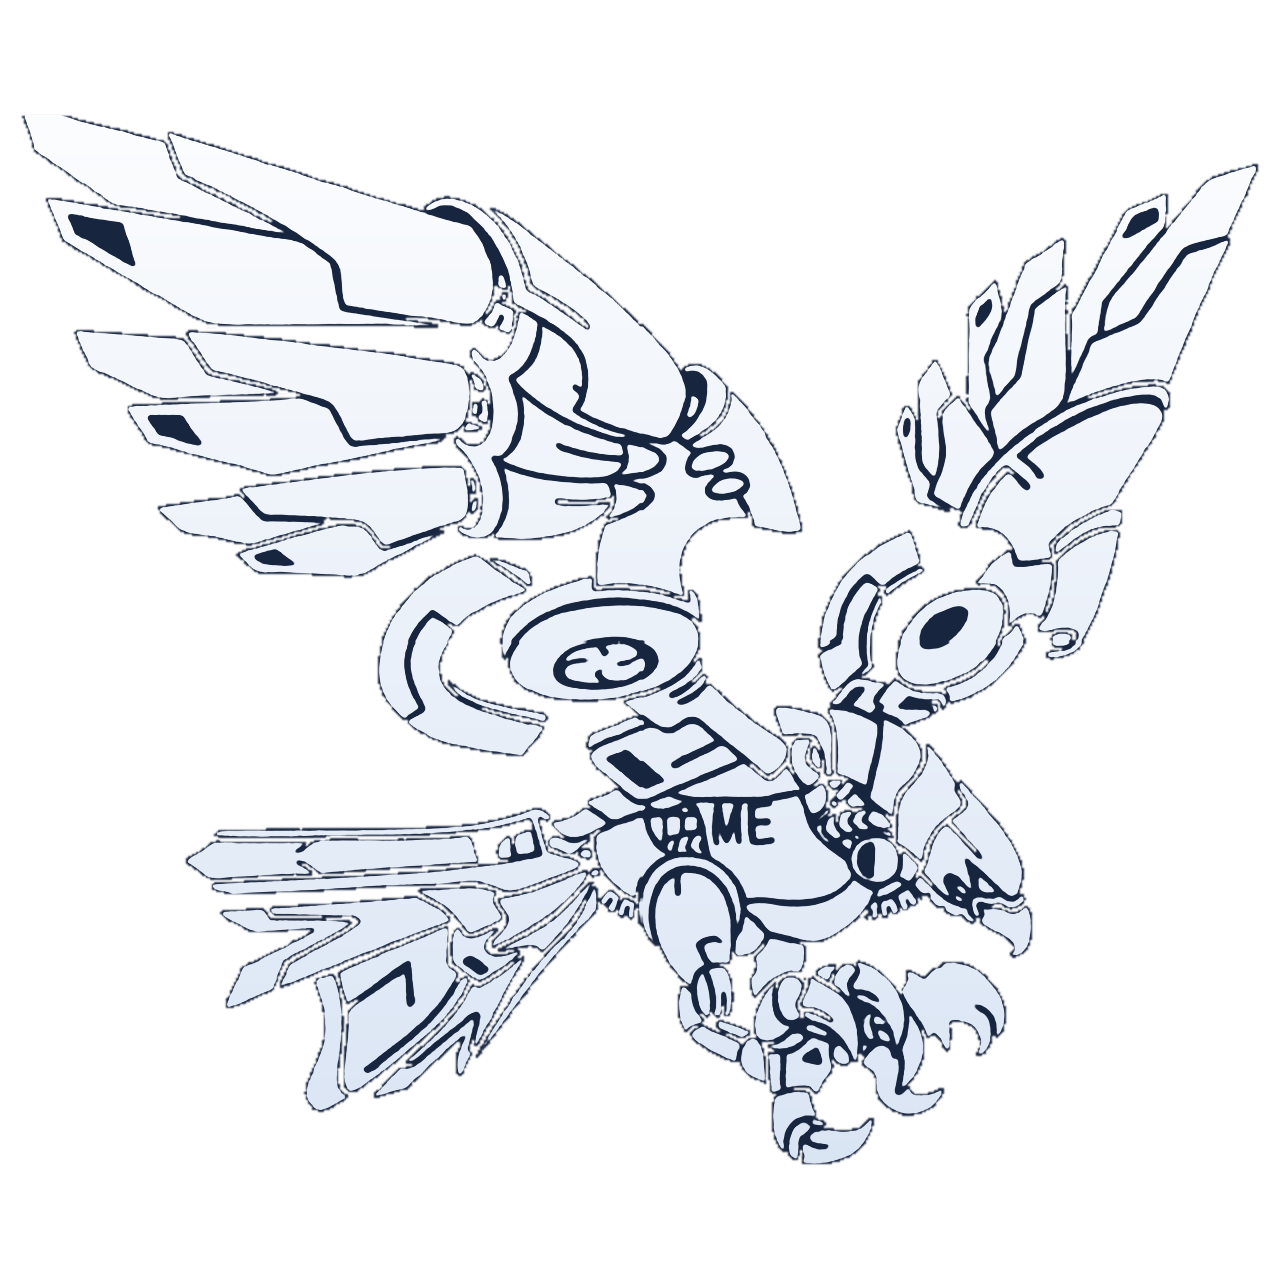
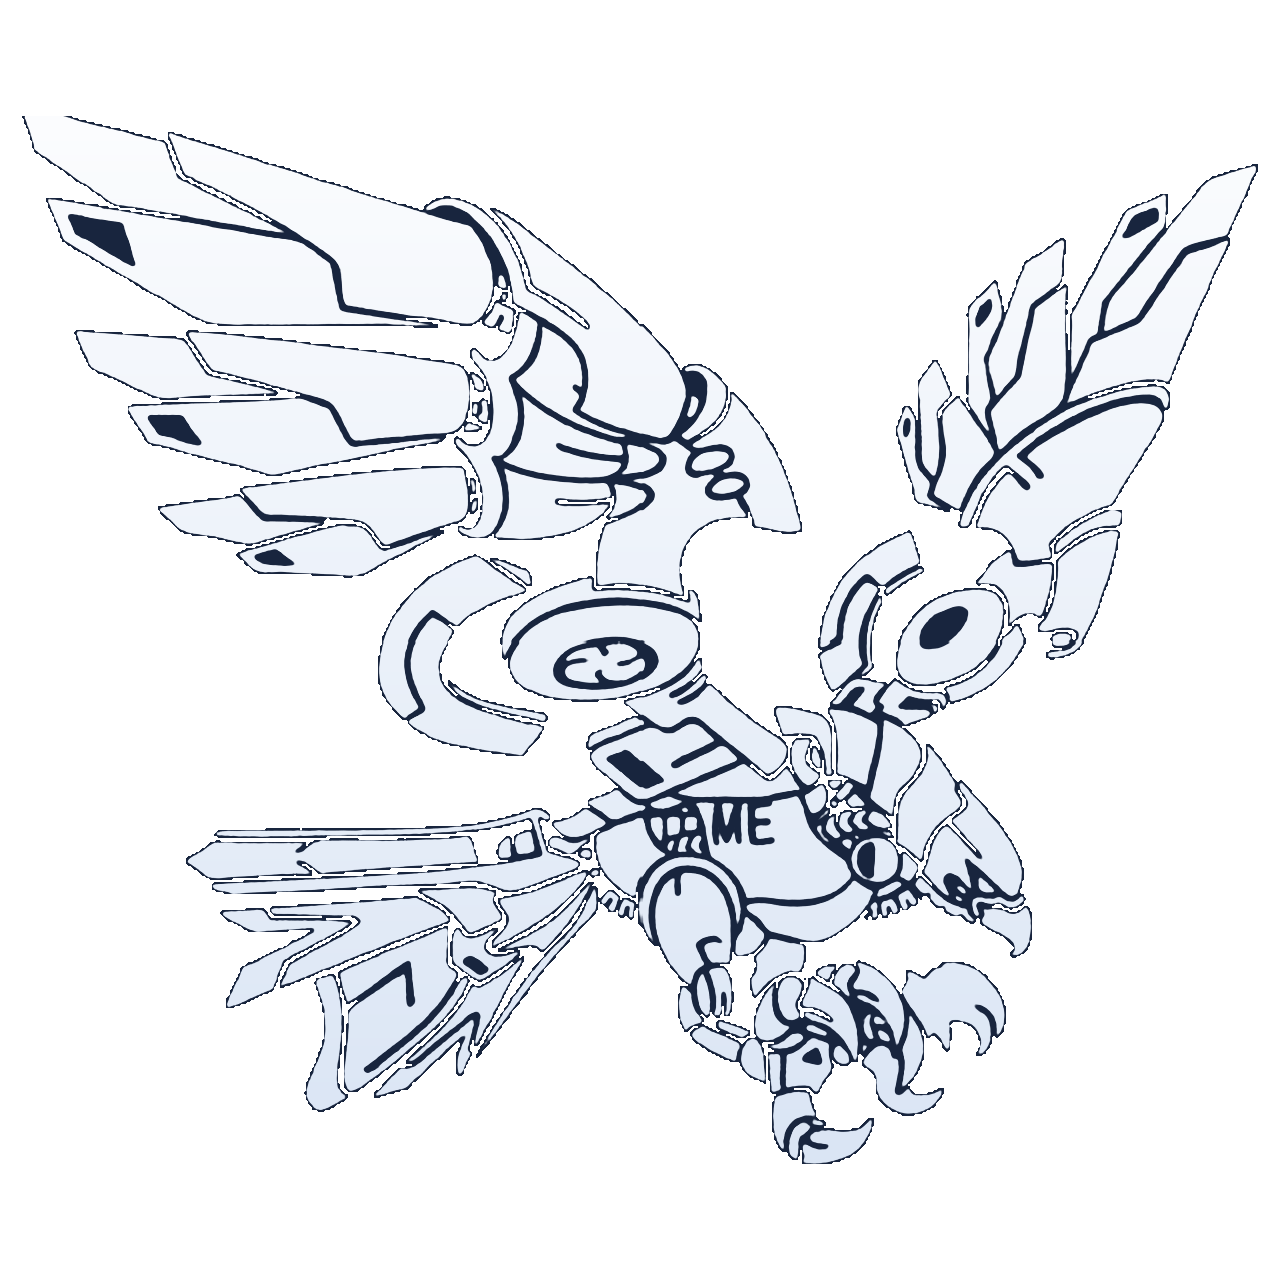
독수리 날개 분리 복구 + 크기 연출 조정
- 리마스터 블러로 넓어진 알파 프린지가 오른날개를 몸통 성분에 붙여
  한쪽만 퍼덕이던 문제: 알파 하드 엣지 재베이크 + 추출 임계 40→120
  (성분 구조 원상 복구 검증: 오른날개 독립 18,958px)
- 크기: 조립·비행 중 카메라 5.9→5.2로 확대, 타이틀 등장 시 +0.8 축소
- 상승폭 0.26→0.2 (상단 클리핑 방지)

diff --git a/design-candidates/assets/intro-eagle.js b/design-candidates/assets/intro-eagle.js
@@ -81,7 +81,7 @@ function extractPieces(img) {
   var KEYS = ['body', 'wingL', 'wingR', 'tail', 'talons'];
   var region = new Int8Array(S * S); region.fill(-1);
   var A = new Uint8Array(S * S);
-  for (var i = 0; i < S * S; i++) A[i] = dd[i * 4 + 3] > 40 ? 1 : 0;
+  for (var i = 0; i < S * S; i++) A[i] = dd[i * 4 + 3] > 120 ? 1 : 0;
 
   var label = new Int32Array(S * S); label.fill(-1);
   var q = new Int32Array(S * S), comps = [];
@@ -466,7 +466,8 @@ function start(tex) {
     var whole = easeOut(clamp01(t / (asmEnd + 200)));
     root.rotation.y = -0.5 * (1 - whole);
     root.rotation.x = -0.13 * (1 - whole);
-    cam.position.z = 7.5 - 1.6 * whole;
+    var tz = easeIO(clamp01((t - (F0 + 380)) / 600));   // 타이틀 등장 때 살짝 축소
+    cam.position.z = 7.5 - 2.3 * whole + 0.8 * tz;
 
     /* 완성 리빌: 어두운 강판 → 점등(흰) → 샴페인 골드 */
     var goldT = easeIO(clamp01((t - F0) / 650));
@@ -491,7 +492,7 @@ function start(tex) {
       groups.wingR.grp.rotation.x = -0.08 * pose;
     }
     var rise = easeIO(clamp01((t - (F0 + 100)) / 1200));
-    root.position.y = 0.35 + 0.26 * rise;
+    root.position.y = 0.35 + 0.2 * rise;
     var s2 = 1 + 0.06 * rise;
     root.scale.set(s2, s2, s2);
 

diff --git a/design-candidates/G-console.html b/design-candidates/G-console.html
@@ -888,7 +888,7 @@ setTimeout(function(){if(!document.body.classList.contains('gl-on'))document.bod
 /* 인트로 변형 선택 — 기본은 독수리(B). 비교용: ?intro=seal 은 씰 조립(A) */
 if (document.getElementById('intro')) {
   var pick = new URLSearchParams(location.search).get('intro');
-  import(pick === 'seal' ? './assets/intro3d.js?v=4' : './assets/intro-eagle.js?v=10');
+  import(pick === 'seal' ? './assets/intro3d.js?v=4' : './assets/intro-eagle.js?v=11');
 }
 </script>
 <script src="assets/nav.js?v=20"></script>
